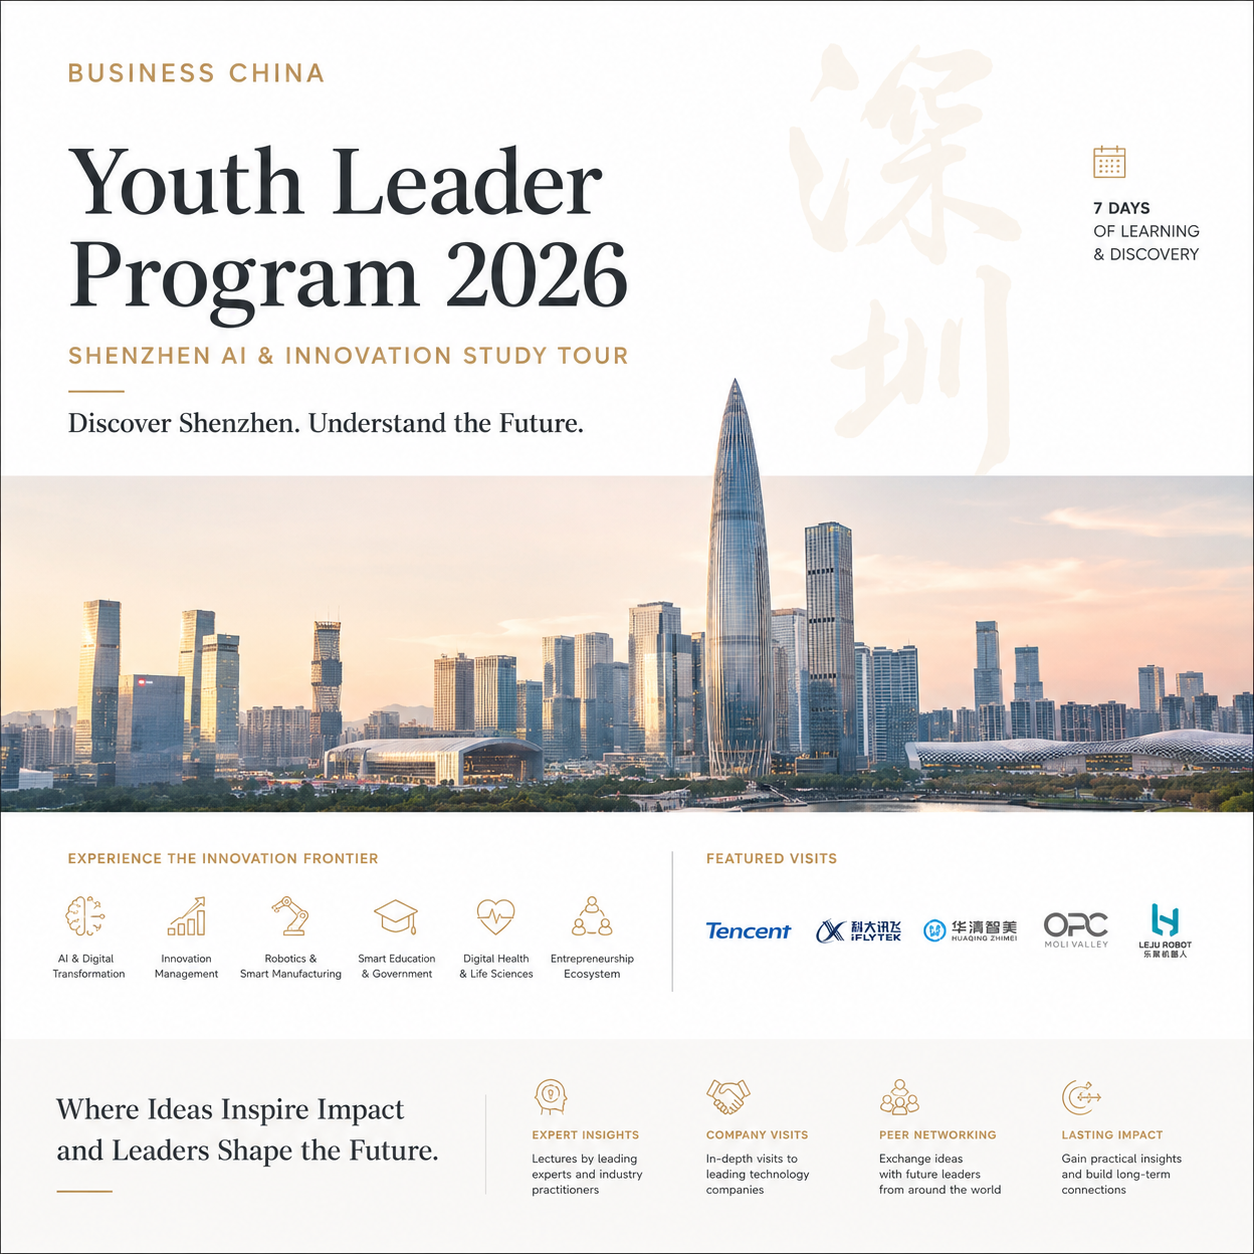
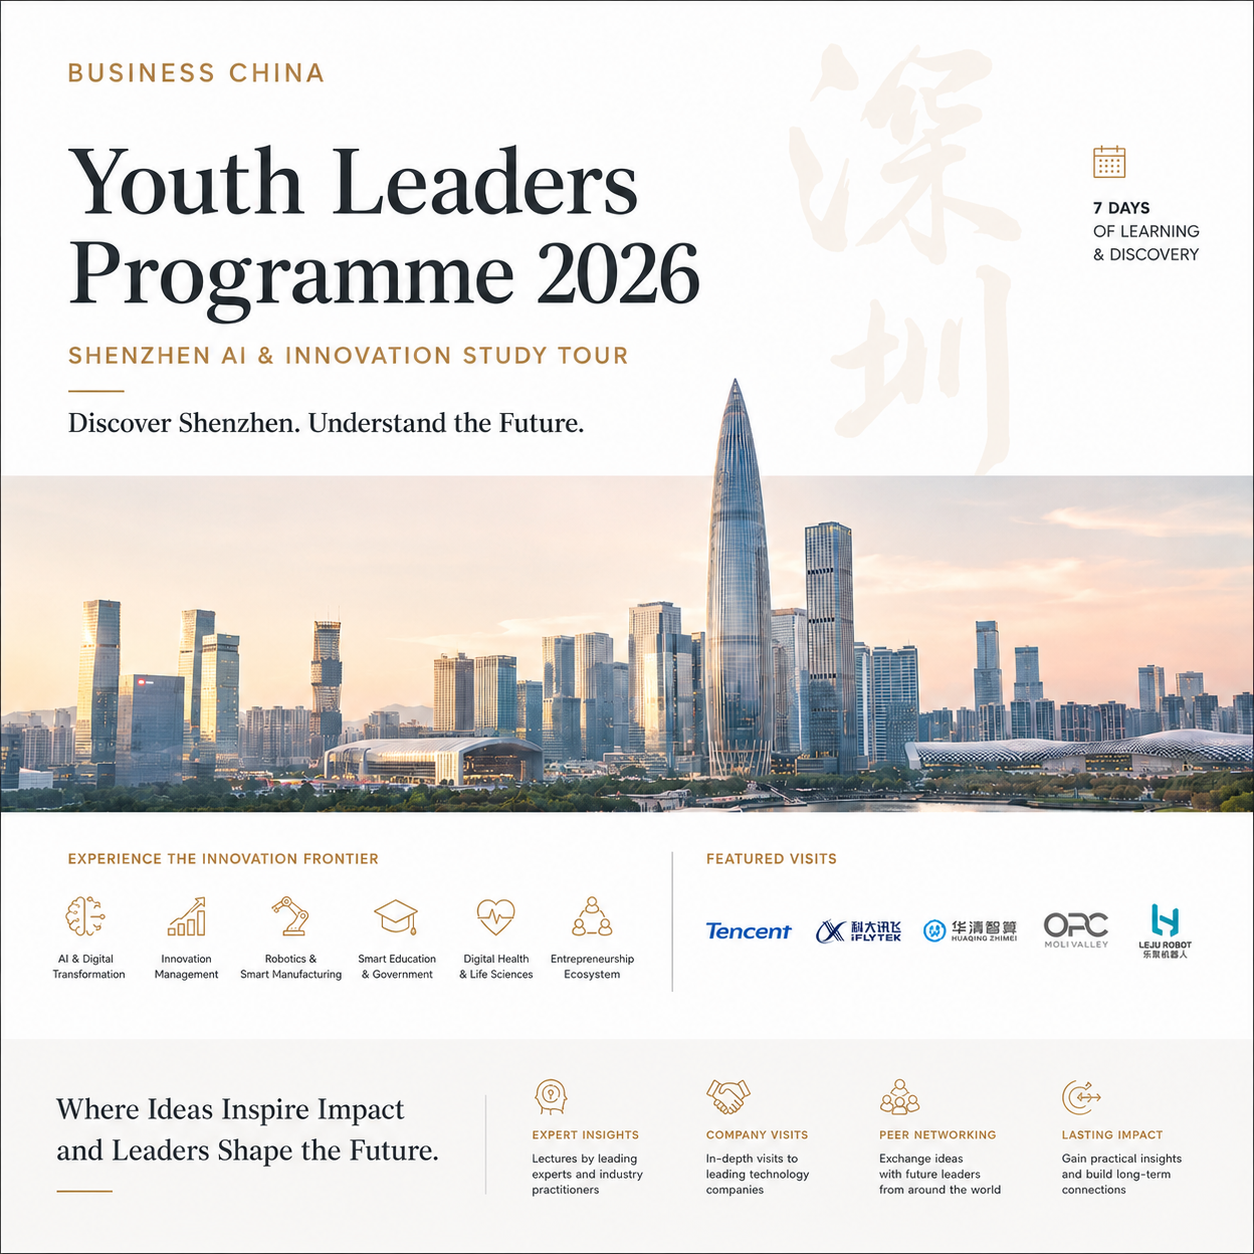
Update poster and programme copy

diff --git a/public/index.html b/public/index.html
@@ -37,13 +37,13 @@
           <figure class="programme-poster-image-wrap">
             <img
               src="./clients/business-china-ylp-shenzhen/poster.png"
-              alt="Business China Youth Leader Program 2026 poster"
+              alt="Business China Youth Leaders Programme poster"
               class="programme-poster-image"
             />
           </figure>
 
           <section class="itinerary-card" aria-labelledby="itinerary-title">
-            <h3 id="itinerary-title">Seven-Day Journey</h3>
+            <h3 id="itinerary-title">7 Days</h3>
             <div class="itinerary-list">
               <article>
                 <h4>Day 1 - Arrival in Shenzhen</h4>
@@ -78,13 +78,13 @@
         </div>
 
         <section class="details-panel" id="overview">
-          <p class="eyebrow">Youth Leader Program 2026</p>
+          <p class="eyebrow">Youth Leaders Programme</p>
           <h2>Business China YLP Immersion Programme - Shenzhen</h2>
           <p class="details-summary details-summary--standalone">7-Day Executive Learning Journey</p>
 
           <div class="detail-group">
             <h3>Programme Duration</h3>
-            <p>Seven-Day Journey</p>
+            <p>7 Days</p>
           </div>
 
           <div class="detail-group">
